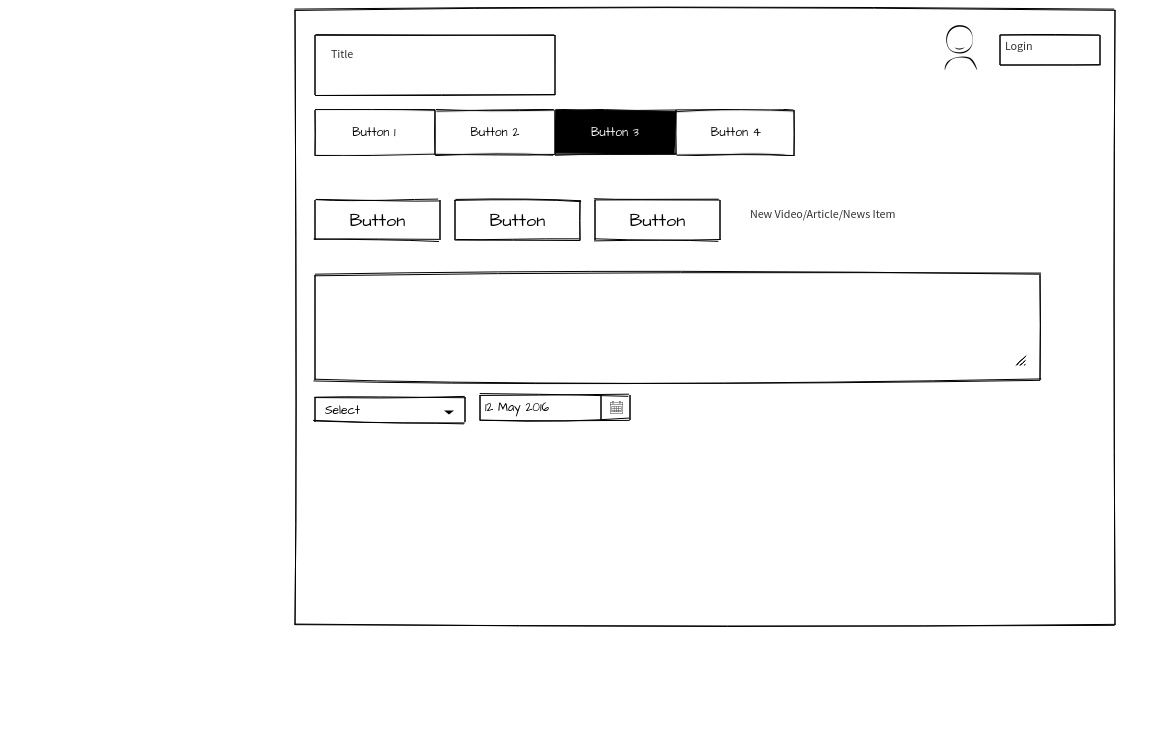
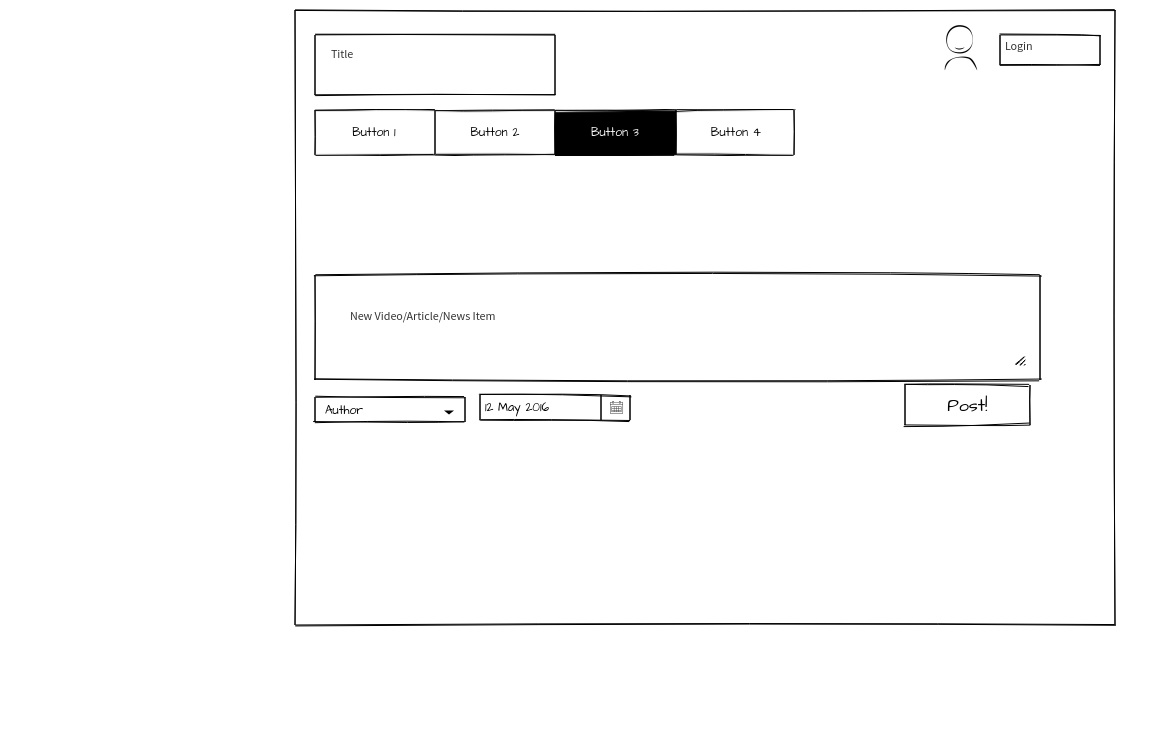
wireframes

diff --git a/planning/readme.md b/planning/readme.md
@@ -1,13 +1,12 @@
 ## Project Idea
 
-News/video aggregator for fans of Liverpool Football Club
+News/video collection for fans of Liverpool Football Club to read and share new items or find information about league standings or upcoming games.
 
 ## Features
 
 * ability for Users to read posts - follow links to external content
 * ability for Users to post new items including links to external content/videos
 * pages to display upcoming matches and league table (fetched from API)
-* discussion board for Users to discuss team
 
 ## User Stories
 
@@ -16,3 +15,14 @@ News/video aggregator for fans of Liverpool Football Club
 * As a User, I would like to find information about our upcoming schedule.
 * As a User, I would like to edit my previous posts so that I can fix errors.
 * As a User, I would like to discuss news with other Users so that we can share our interest in the club.
+* As a User, I would like to see the league standings so i know how well we are doing.
+* As a user, I would like to comment on other postings.
+* As a User, I would like to
+
+### Wireframes included:
+
+1.  Home Page: Header with page logo/name, login link, nav bar. Main content includes recent posts and upcoming games.
+
+2.  List View: Basic list view for all posts.
+
+3.  New Post: Create a new item. Provide content or links to external content with description.
